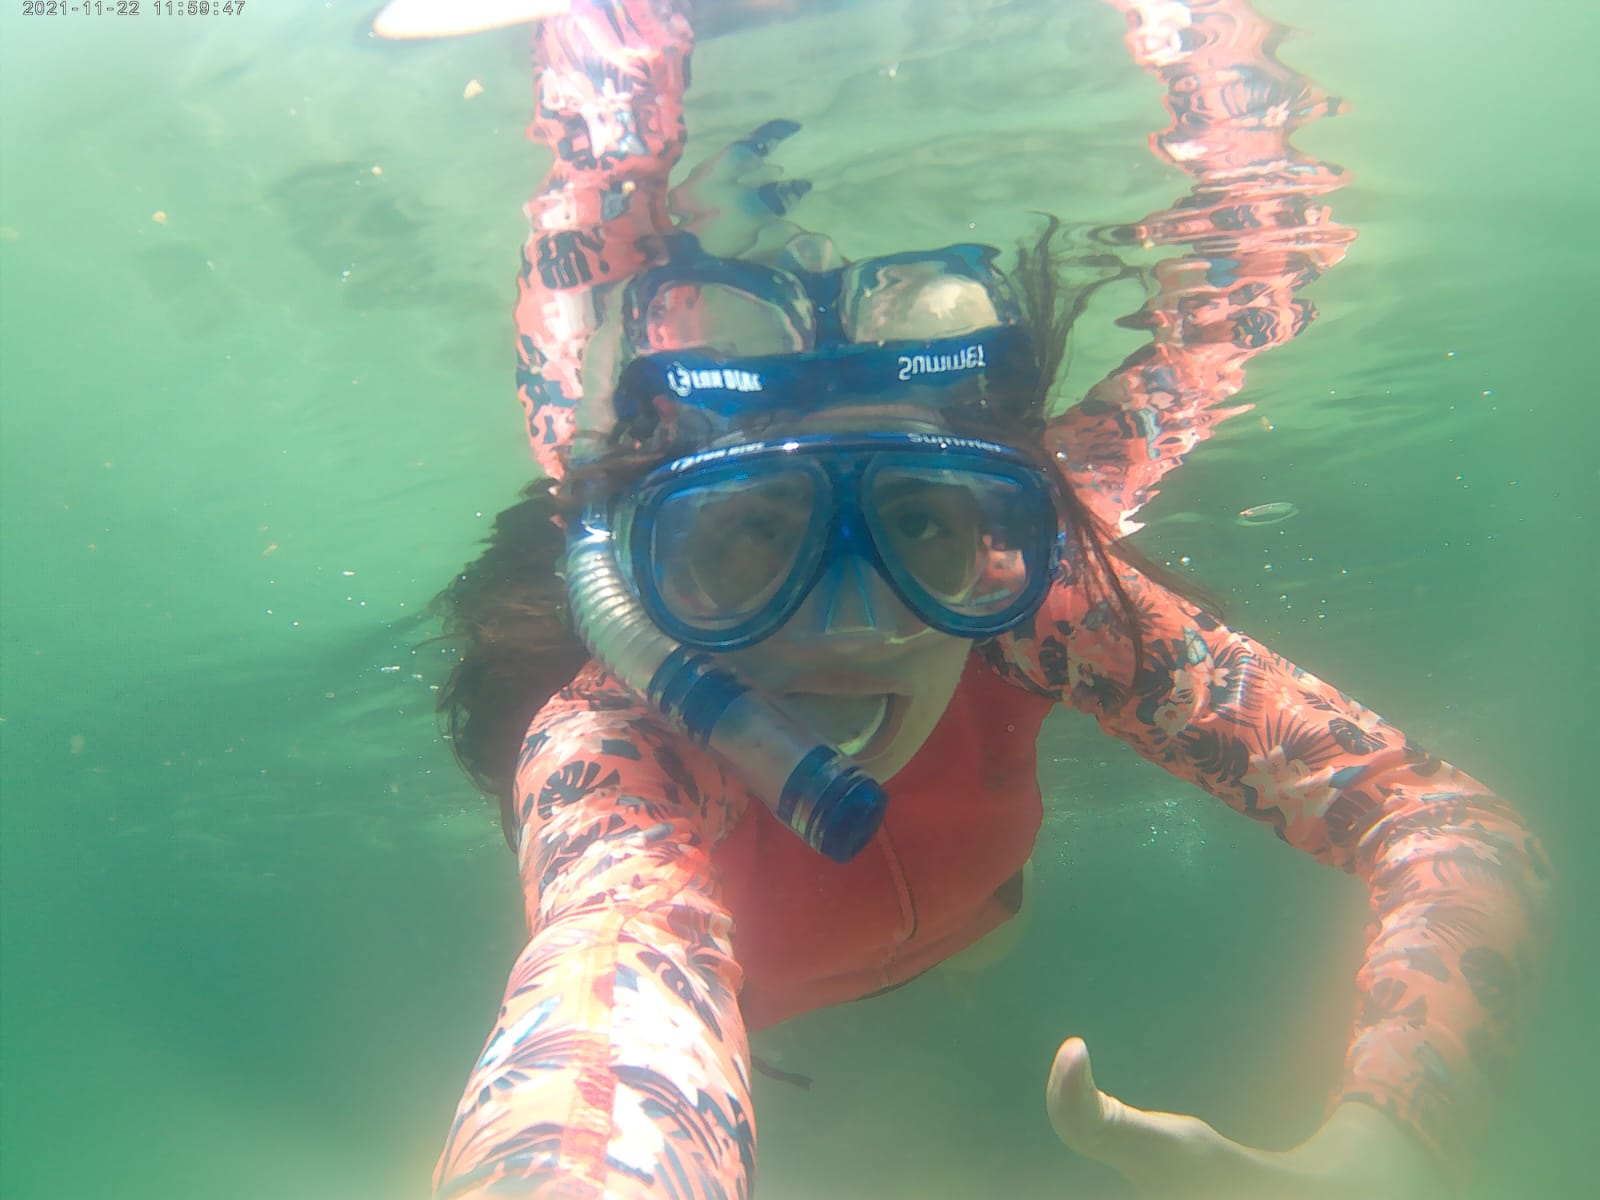
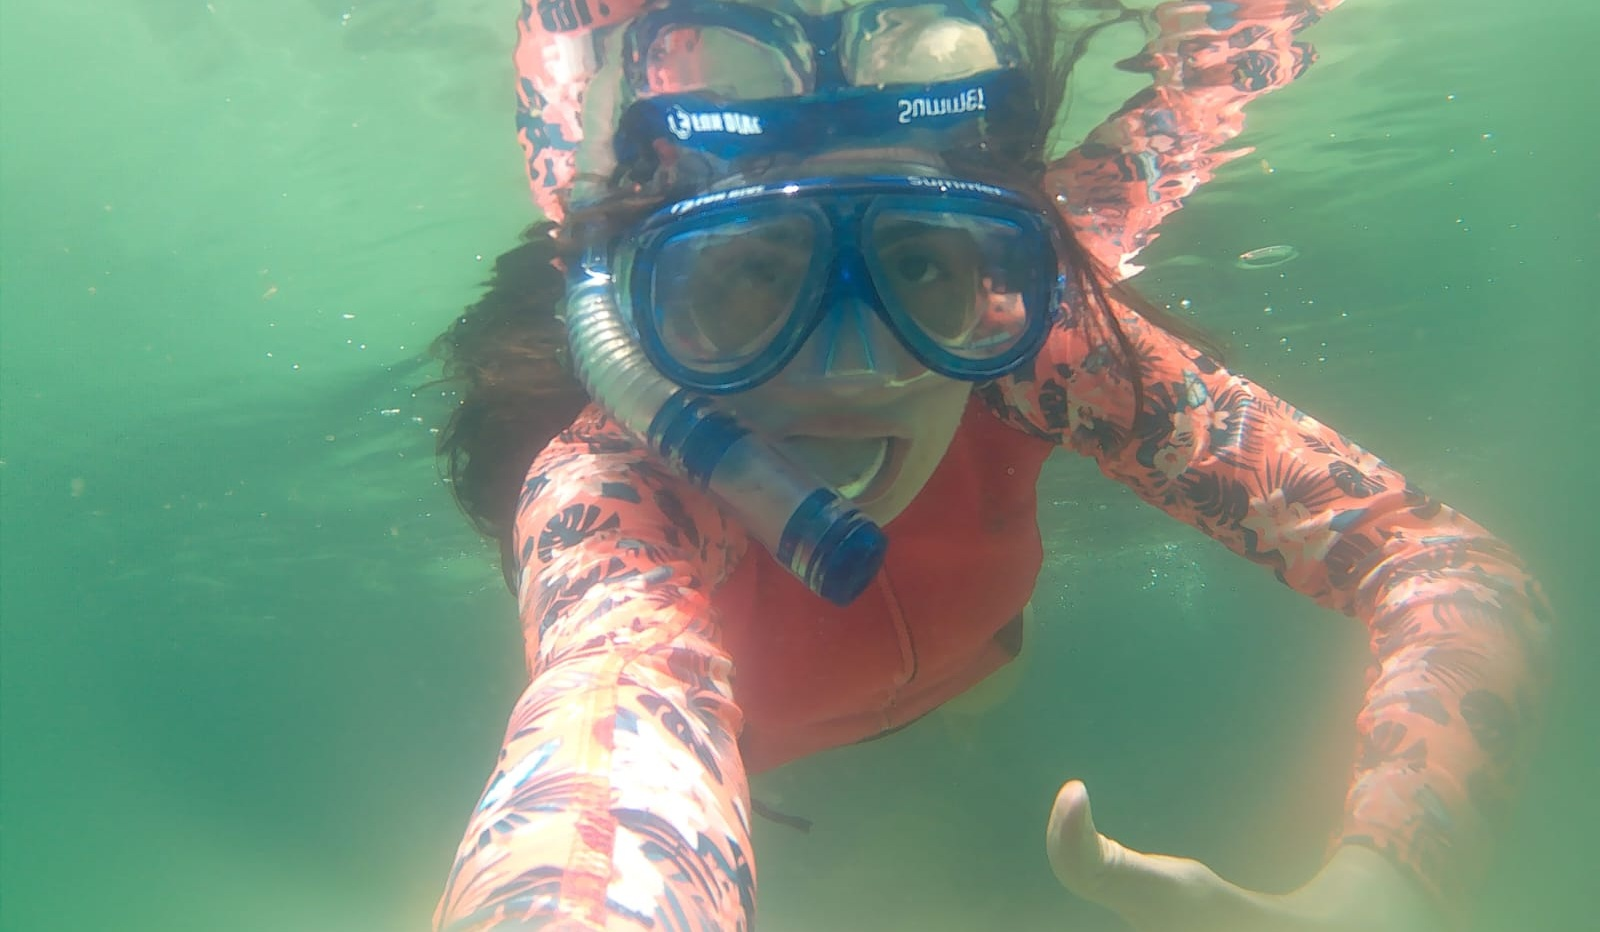
alteração foto 'hero section'

diff --git a/index.html b/index.html
@@ -51,8 +51,7 @@
         <h1 class="text-light"><a href="index.html">Marcella Rabello</a></h1>
         <div class="social-links mt-3 text-center">
             <a href="https://www.linkedin.com/in/marcella-rabello-b80b08315/" target="_blank"  class="linkedin"><i class="bx bxl-linkedin"></i></a>
-            <a href="https://github.com/marcellarabellodev" target="_blank" class="github" rel="noopener noreferrer"> <i class="bx bxl-github"></i> </a>
-             
+            <a href="https://github.com/marcellarabellodev" target="_blank" class="github" rel="noopener noreferrer"> <i class="bx bxl-github"></i> </a> 
         </div>
       </div>
 

diff --git a/assets/css/style.css b/assets/css/style.css
@@ -241,7 +241,7 @@ h6 {
 #hero {
   width: 100%;
   height: 100vh;
-  background: url("../img/hero-bg.jpg") top center;
+  background: url("../img/hero-bg2.jpg") top center;
   background-size: cover;
 }
 
